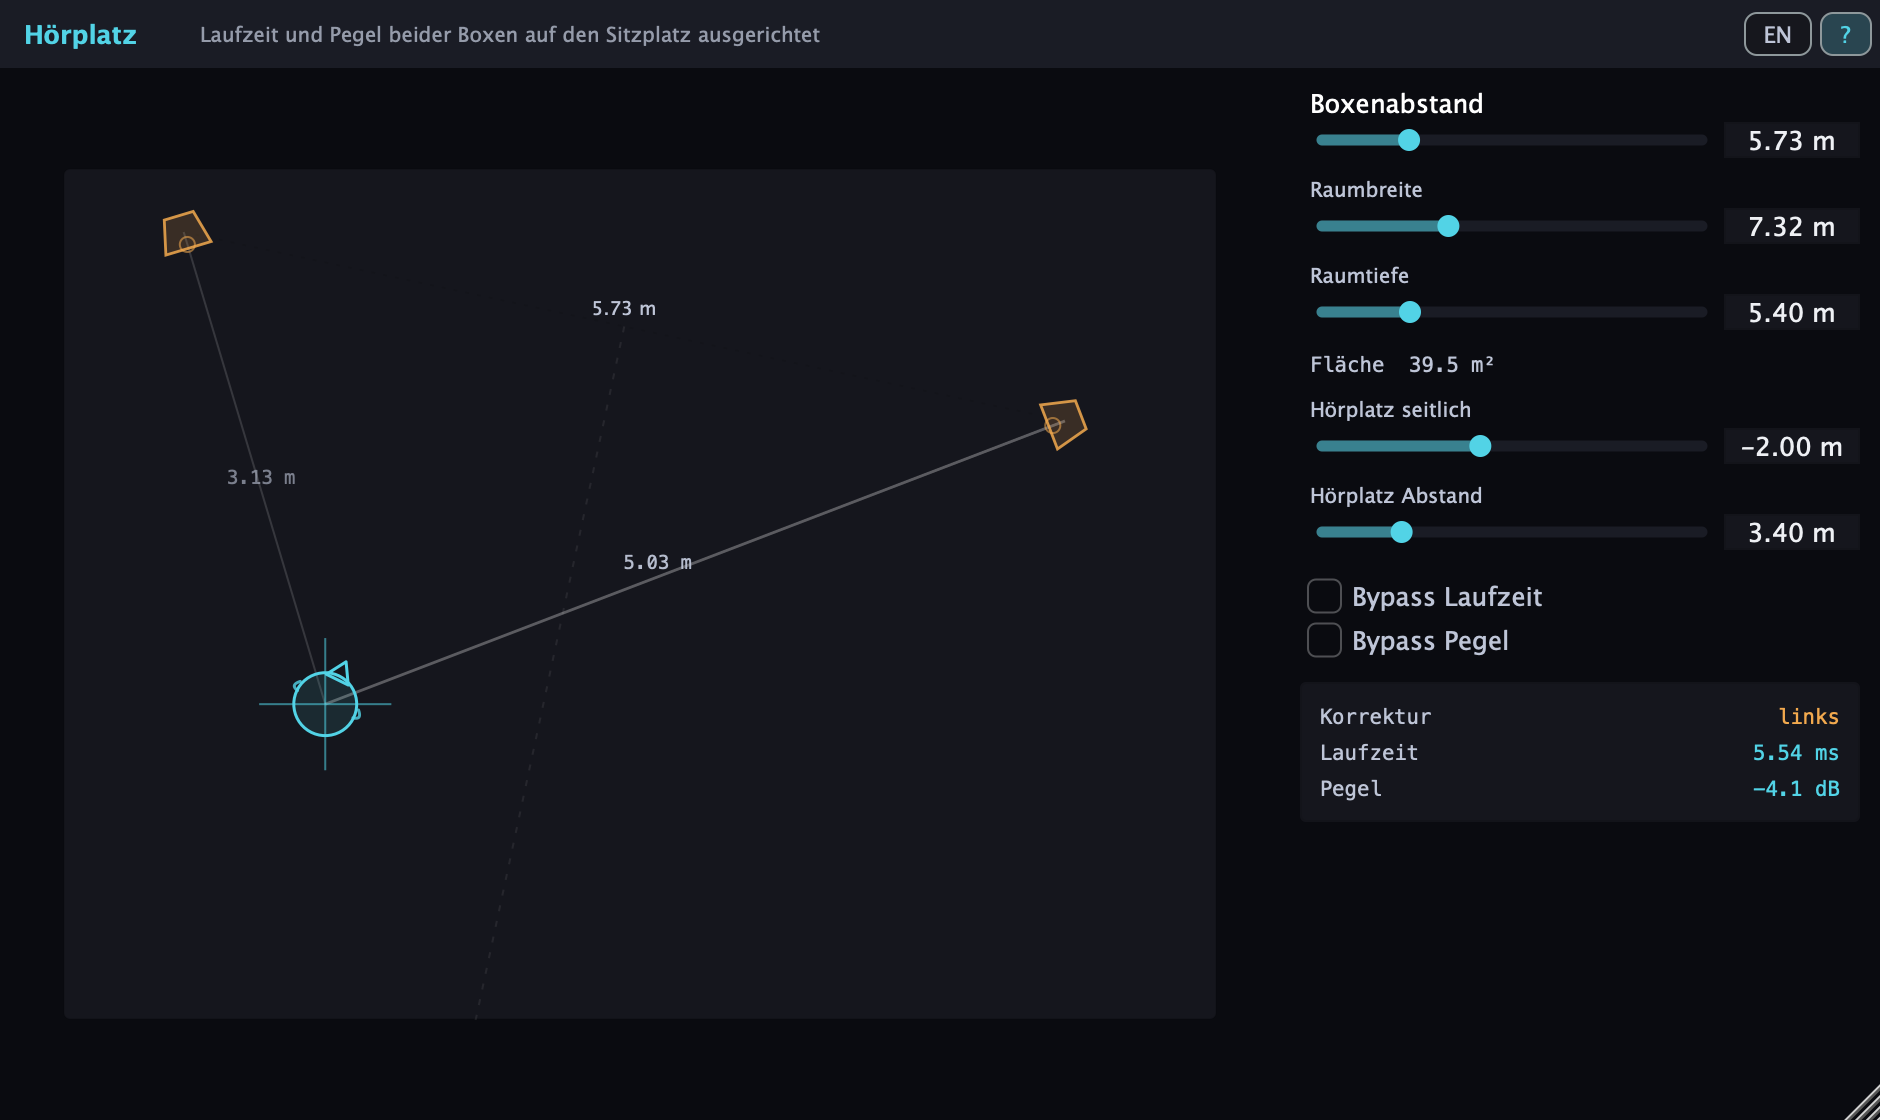
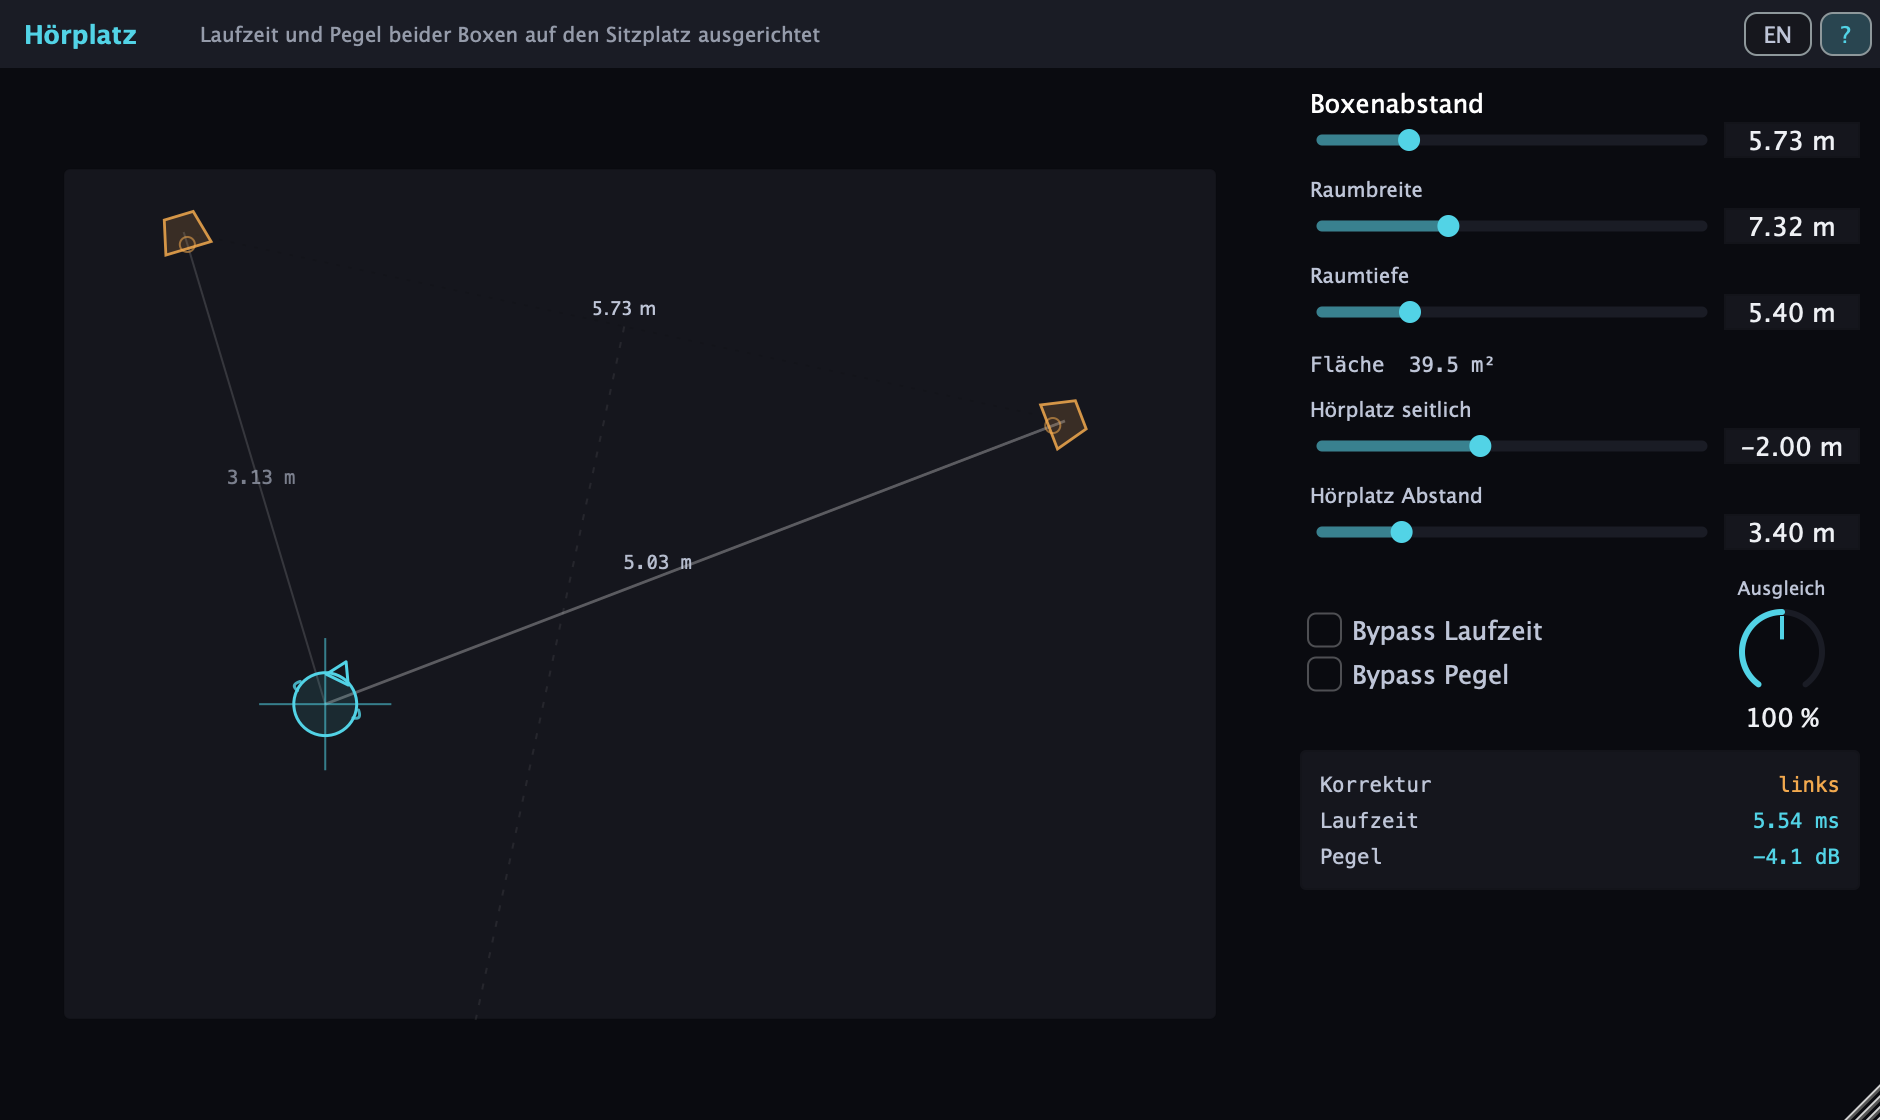
Pegelausgleich regelbar (0-200 %): 1/r gilt im Freien, im Raum ist die volle Korrektur zu viel
Die Rechnung nach 1/r stimmt fuers Freifeld. In einem moeblierten Raum kommt
Diffusschall dazu, der Pegel faellt flacher ab als 6 dB pro
Abstandsverdopplung - die volle Absenkung der naeheren Box ist dann zu stark
und die Mitte kippt zur ferneren Box. Statt einen festen Kompromiss
einzubauen, ist der Anteil jetzt regelbar: gain = (d/dmax)^n mit n von 0 bis
2, was den Dezibelwert skaliert. 0 % entspricht dem Pegel-Bypass, 100 % der
Rechnung fuers Freie, darueber laesst sich die Mitte bewusst ueberziehen.

Der Knopf steht neben den beiden Bypass-Schaltern, weil er dasselbe
betrifft. Dazu ein schlanker Ring statt des dicken Vorgabe-Bogens von
LookAndFeel_V4.

geometry_check prueft die drei Eckpunkte des Anteils: 0 laesst die Pegel in
Ruhe und die Laufzeit unberuehrt, 200 % verdoppelt den Dezibelwert genau.
auval bestanden.

Changed region(s): [[0.6787, 0.5312, 0.833, 0.7812], [0.9255, 0.625, 0.9872, 0.7812], [0.9255, 0.5, 0.9564, 0.5938]]

diff --git a/Source/PluginEditor.cpp b/Source/PluginEditor.cpp
@@ -75,6 +75,35 @@ juce::Label* HoerplatzEditor::MonoLookAndFeel::createSliderTextBox (juce::Slider
     return label;
 }
 
+void HoerplatzEditor::MonoLookAndFeel::drawRotarySlider (juce::Graphics& g, int x, int y,
+                                                         int width, int height, float sliderPos,
+                                                         float startAngle, float endAngle,
+                                                         juce::Slider&)
+{
+    const auto bounds = juce::Rectangle<int> (x, y, width, height).toFloat().reduced (3.0f);
+    const float radius = juce::jmin (bounds.getWidth(), bounds.getHeight()) * 0.5f;
+    const auto centre = bounds.getCentre();
+    const float angle = startAngle + sliderPos * (endAngle - startAngle);
+    const float ring = radius - 3.0f;
+
+    juce::Path back;
+    back.addCentredArc (centre.x, centre.y, ring, ring, 0.0f, startAngle, endAngle, true);
+    g.setColour (Theme::surface2);
+    g.strokePath (back, juce::PathStrokeType (3.0f, juce::PathStrokeType::curved,
+                                              juce::PathStrokeType::rounded));
+
+    juce::Path value;
+    value.addCentredArc (centre.x, centre.y, ring, ring, 0.0f, startAngle, angle, true);
+    g.setColour (Theme::cyan);
+    g.strokePath (value, juce::PathStrokeType (3.0f, juce::PathStrokeType::curved,
+                                               juce::PathStrokeType::rounded));
+
+    const juce::Point<float> tip { centre.x + std::sin (angle) * (ring - 2.0f),
+                                   centre.y - std::cos (angle) * (ring - 2.0f) };
+    g.setColour (Theme::cyan);
+    g.drawLine ({ centre + (tip - centre) * 0.35f, tip }, 2.0f);
+}
+
 HoerplatzEditor::HoerplatzEditor (HoerplatzProcessor& p)
     : AudioProcessorEditor (&p), plugin (p), room (p), readout (p)
 {
@@ -126,6 +155,23 @@ HoerplatzEditor::HoerplatzEditor (HoerplatzProcessor& p)
         plugin.apvts, Params::bypassDelay, bypassDelay);
     bypassGainAttach = std::make_unique<juce::AudioProcessorValueTreeState::ButtonAttachment> (
         plugin.apvts, Params::bypassGain, bypassGain);
+
+    gainAmountKnob.setSliderStyle (juce::Slider::RotaryHorizontalVerticalDrag);
+    gainAmountKnob.setTextBoxStyle (juce::Slider::TextBoxBelow, false, 52, 13);
+    gainAmountKnob.setColour (juce::Slider::rotarySliderFillColourId, Theme::cyan);
+    gainAmountKnob.setColour (juce::Slider::rotarySliderOutlineColourId, Theme::surface2);
+    gainAmountKnob.setColour (juce::Slider::thumbColourId, Theme::cyan);
+    gainAmountKnob.setColour (juce::Slider::textBoxTextColourId, Theme::text);
+    gainAmountKnob.setColour (juce::Slider::textBoxOutlineColourId, juce::Colours::transparentBlack);
+    gainAmountKnob.setColour (juce::Slider::textBoxBackgroundColourId, juce::Colours::transparentBlack);
+    addAndMakeVisible (gainAmountKnob);
+    gainAmountAttach = std::make_unique<juce::AudioProcessorValueTreeState::SliderAttachment> (
+        plugin.apvts, Params::gainAmount, gainAmountKnob);
+
+    gainAmountLabel.setFont (juce::Font (juce::FontOptions (11.0f)));
+    gainAmountLabel.setColour (juce::Label::textColourId, Theme::textDim);
+    gainAmountLabel.setJustificationType (juce::Justification::centred);
+    addAndMakeVisible (gainAmountLabel);
 
     areaLabel.setFont (monoFont (12.0f));
     areaLabel.setColour (juce::Label::textColourId, Theme::textDim);
@@ -208,6 +254,9 @@ void HoerplatzEditor::applyLanguage()
     roomDepth.label.setText (t.roomDepth, juce::dontSendNotification);
     listenerX.label.setText (t.listenerX, juce::dontSendNotification);
     listenerY.label.setText (t.listenerY, juce::dontSendNotification);
+
+    gainAmountLabel.setText (t.gainAmount, juce::dontSendNotification);
+    gainAmountKnob.setTooltip (t.helpGainAmount);
 
     bypassDelay.setButtonText (t.bypassDelay);
     bypassGain.setButtonText (t.bypassGain);
@@ -355,8 +404,15 @@ void HoerplatzEditor::resized()
     place (listenerY);
 
     side.removeFromTop (4);
-    bypassDelay.setBounds (side.removeFromTop (22));
-    bypassGain.setBounds (side.removeFromTop (22));
+    auto bypassArea = side.removeFromTop (78);
+    auto knobArea = bypassArea.removeFromRight (78);
+    gainAmountLabel.setBounds (knobArea.removeFromTop (13));
+    gainAmountKnob.setBounds (knobArea);
+
+    // Die beiden Schalter stehen mittig zum Knopf daneben.
+    auto switches = bypassArea.withSizeKeepingCentre (bypassArea.getWidth(), 44);
+    bypassDelay.setBounds (switches.removeFromTop (22));
+    bypassGain.setBounds (switches.removeFromTop (22));
     side.removeFromTop (10);
 
     readout.setBounds (side.removeFromTop (juce::jmin (70, side.getHeight())));

diff --git a/Source/Geometry.h b/Source/Geometry.h
@@ -43,7 +43,12 @@ namespace Geometry
         double gainRatio() const { return std::min (gainL, gainR); }
     };
 
-    inline Alignment compute (Point left, Point right, Point listener)
+    // gainAmount steuert, wie weit der Pegelausgleich geht: 1.0 ist die
+    // volle Rechnung nach 1/r, 0.0 laesst die Pegel in Ruhe, 2.0 verdoppelt
+    // die Absenkung in Dezibel. Im Raum faellt der Pegel wegen des
+    // Diffusschalls flacher ab als im Freien - dort liegt das Gehoerte
+    // naeher an Werten unter 1.0.
+    inline Alignment compute (Point left, Point right, Point listener, double gainAmount = 1.0)
     {
         Alignment a;
 
@@ -68,8 +73,10 @@ namespace Geometry
         // Hoerplatz gleich laut ankommen, wird die naehere abgesenkt - im
         // Verhaeltnis der Abstaende. Angehoben wird nie, der lauteste Kanal
         // bleibt bei 1.0, so kann nichts uebersteuern.
-        a.gainL = a.distL / far;
-        a.gainR = a.distR / far;
+        // Als Potenz gerechnet, weil der Anteil in Dezibel wirken soll:
+        // (d/dmax)^n entspricht dem n-fachen Dezibelwert.
+        a.gainL = std::pow (a.distL / far, gainAmount);
+        a.gainR = std::pow (a.distR / far, gainAmount);
 
         // Richtungen zu den Boxen, normiert.
         const double nlx = lx / a.distL, nly = ly / a.distL;

diff --git a/Source/PluginEditor.h b/Source/PluginEditor.h
@@ -64,6 +64,12 @@ private:
     Row roomWidth, roomDepth, listenerX, listenerY;
 
     juce::ToggleButton bypassDelay, bypassGain;
+
+    // Wie weit der Pegelausgleich geht - steht beim Pegel-Bypass, weil beide
+    // dasselbe betreffen.
+    juce::Slider gainAmountKnob;
+    juce::Label gainAmountLabel;
+    std::unique_ptr<juce::AudioProcessorValueTreeState::SliderAttachment> gainAmountAttach;
     std::unique_ptr<juce::AudioProcessorValueTreeState::ButtonAttachment> bypassDelayAttach, bypassGainAttach;
 
     juce::Label areaLabel;
@@ -80,6 +86,12 @@ private:
     struct MonoLookAndFeel : juce::LookAndFeel_V4
     {
         juce::Label* createSliderTextBox (juce::Slider&) override;
+
+        // Schlanker Ring statt des dicken Bogens der Vorgabe - dieselbe
+        // zurueckhaltende Linienstaerke wie im Rest der Oberflaeche.
+        void drawRotarySlider (juce::Graphics&, int x, int y, int width, int height,
+                               float sliderPos, float startAngle, float endAngle,
+                               juce::Slider&) override;
     };
     MonoLookAndFeel monoLnf;
 

diff --git a/Source/Strings.cpp b/Source/Strings.cpp
@@ -16,6 +16,7 @@ namespace
 
         "Bypass Laufzeit",
         "Bypass Pegel",
+        "Ausgleich",
 
         "Korrektur",
         "Laufzeit",
@@ -37,6 +38,7 @@ namespace
         "Abstand des Hörplatzes zur Boxenebene.",
         "Lässt die Laufzeit unangetastet - zum Vergleichen.",
         "Lässt den Pegel unangetastet - zum Vergleichen.",
+        "Wie weit der Pegelausgleich geht. 100 % ist die Rechnung fürs Freie; im Raum klingt weniger oft richtiger.",
         "Um wieviel die nähere Box verzögert und abgesenkt wird."
     };
 
@@ -54,6 +56,7 @@ namespace
 
         "Bypass delay",
         "Bypass level",
+        "Amount",
 
         "Correction",
         "Delay",
@@ -75,6 +78,7 @@ namespace
         "Distance from the seat to the speaker line.",
         "Leaves the delay untouched - for comparison.",
         "Leaves the level untouched - for comparison.",
+        "How far the level correction goes. 100 % is the free-field maths; in a room, less often sounds right.",
         "How much the nearer speaker is delayed and turned down."
     };
 }

diff --git a/Tests/geometry_check.cpp b/Tests/geometry_check.cpp
@@ -92,6 +92,23 @@ int main()
         CHECK (near (Geometry::speakerDistance (l, r), len, 1e-12));
     }
 
+    // Anteil des Pegelausgleichs: 0 laesst die Pegel in Ruhe, 2 verdoppelt
+    // die Absenkung in Dezibel. Die Laufzeit bleibt davon unberuehrt.
+    {
+        const Geometry::Point seat { -1.2, 3.35 };
+        const auto full = Geometry::compute (boxL, boxR, seat, 1.0);
+        const auto none = Geometry::compute (boxL, boxR, seat, 0.0);
+        const auto over = Geometry::compute (boxL, boxR, seat, 2.0);
+
+        CHECK (near (none.gainL, 1.0) && near (none.gainR, 1.0));
+        CHECK (near (none.delayL, full.delayL) && near (none.delayR, full.delayR));
+        CHECK (over.gainL < full.gainL);
+
+        const double dbFull = 20.0 * std::log10 (full.gainL);
+        const double dbOver = 20.0 * std::log10 (over.gainL);
+        CHECK (near (dbOver, 2.0 * dbFull, 1e-9));
+    }
+
     // Der Laufzeitunterschied kann den Abstand der Boxen nie ueberschreiten
     // (Dreiecksungleichung) - davon haengt die Groesse des Delaypuffers ab.
     {

diff --git a/Source/PluginProcessor.cpp b/Source/PluginProcessor.cpp
@@ -15,6 +15,7 @@ HoerplatzProcessor::HoerplatzProcessor()
     pListenerY       = apvts.getRawParameterValue (Params::listenerY);
     pBypassDelay     = apvts.getRawParameterValue (Params::bypassDelay);
     pBypassGain      = apvts.getRawParameterValue (Params::bypassGain);
+    pGainAmount      = apvts.getRawParameterValue (Params::gainAmount);
 }
 
 bool HoerplatzProcessor::isBusesLayoutSupported (const BusesLayout& layouts) const
@@ -62,7 +63,8 @@ Geometry::Alignment HoerplatzProcessor::currentAlignment() const
 {
     return Geometry::compute ({ pLeftX->load(),  pLeftY->load() },
                               { pRightX->load(), pRightY->load() },
-                              { pListenerX->load(), pListenerY->load() });
+                              { pListenerX->load(), pListenerY->load() },
+                              pGainAmount->load() * 0.01);
 }
 
 void HoerplatzProcessor::processBlock (juce::AudioBuffer<float>& buffer, juce::MidiBuffer&)

diff --git a/Source/Params.cpp b/Source/Params.cpp
@@ -48,5 +48,16 @@ juce::AudioProcessorValueTreeState::ParameterLayout Params::createLayout()
     layout.add (std::make_unique<juce::AudioParameterBool> (
         juce::ParameterID { bypassGain, 1 }, "Bypass Pegel", false));
 
+    // Wie weit der Pegelausgleich geht. 100 % ist die Rechnung nach 1/r,
+    // wie sie im Freien gilt; im Raum traegt der Diffusschall dazu bei, dass
+    // der Unterschied kleiner ausfaellt - dann passen niedrigere Werte
+    // besser zum Gehoerten. Ueber 100 % laesst sich die Mitte auch bewusst
+    // ueberziehen.
+    layout.add (std::make_unique<juce::AudioParameterFloat> (
+        juce::ParameterID { gainAmount, 1 }, "Pegel-Ausgleich",
+        juce::NormalisableRange<float> { 0.0f, 200.0f, 1.0f }, 100.0f,
+        juce::AudioParameterFloatAttributes{}.withStringFromValueFunction (
+            [] (float v, int) { return juce::String ((int) v) + " %"; })));
+
     return layout;
 }

diff --git a/Source/Params.h b/Source/Params.h
@@ -21,6 +21,7 @@ namespace Params
     inline constexpr const char* listenerY  = "posY";
     inline constexpr const char* bypassDelay = "byDelay";
     inline constexpr const char* bypassGain  = "byGain";
+    inline constexpr const char* gainAmount  = "gainAmt";
 
     // Sprache und Hilfe sind Sache der Oberflaeche, nicht des Klangs. Sie
     // liegen deshalb als Eigenschaften im gespeicherten Zustand und nicht

diff --git a/Source/Strings.h b/Source/Strings.h
@@ -30,6 +30,7 @@ struct Texts
 
     Text bypassDelay;
     Text bypassGain;
+    Text gainAmount;
 
     Text correction;     // Ueberschrift des Zahlenfelds
     Text delayRow;
@@ -52,6 +53,7 @@ struct Texts
     Text helpListenerY;
     Text helpBypassDelay;
     Text helpBypassGain;
+    Text helpGainAmount;
     Text helpReadout;
 };
 

diff --git a/Source/PluginProcessor.h b/Source/PluginProcessor.h
@@ -63,6 +63,7 @@ private:
     std::atomic<float>* pListenerY = nullptr;
     std::atomic<float>* pBypassDelay = nullptr;
     std::atomic<float>* pBypassGain = nullptr;
+    std::atomic<float>* pGainAmount = nullptr;
 
     JUCE_DECLARE_NON_COPYABLE_WITH_LEAK_DETECTOR (HoerplatzProcessor)
 };

diff --git a/README.md b/README.md
@@ -33,6 +33,7 @@ Mittelsenkrechte zwischen den Boxen - überall darauf hörst du symmetrisch.
 | Hörplatz seitlich, Abstand | dein Platz, gemessen von der Mitte der vorderen Wand |
 | Bypass Laufzeit | lässt die Verzögerung unangetastet |
 | Bypass Pegel | lässt die Lautstärke unangetastet |
+| Ausgleich | wie weit die Pegelkorrektur geht, 0 bis 200 % |
 
 Die beiden Bypass-Schalter sind zum Vergleichen da: einmal mit, einmal ohne.
 Der Unterschied ist deutlicher, als man erwartet.
@@ -60,6 +61,13 @@ die Ortung ist der erste Schall entscheidend, alles danach kommt zu spät.
 - **Pegel:** der Schalldruck fällt mit `1/r`, die nähere Box wird also im
   Verhältnis der Weglängen abgesenkt (`d / dmax`). Der lautere Kanal bleibt
   bei 0 dB, übersteuern kann dabei nichts.
+- **Ausgleich:** das `1/r` gilt im Freien. In einem Raum kommt Diffusschall
+  dazu, der Pegel fällt flacher ab als 6 dB pro Abstandsverdopplung - die
+  volle Korrektur ist dann zu viel und die Mitte kippt zur ferneren Box.
+  Der Regler skaliert deshalb den Dezibelwert: `(d/dmax)^n` mit n zwischen 0
+  und 2. 100 % ist die Rechnung fürs Freie, in möblierten Räumen sitzt der
+  Punkt nach Gehör oft darunter, und über 100 % lässt sich die Mitte
+  bewusst überziehen.
 
 Der Laufzeitunterschied kann nie größer werden als der Boxenabstand geteilt
 durch die Schallgeschwindigkeit - bei 12 m Abstand sind das 35 ms.
